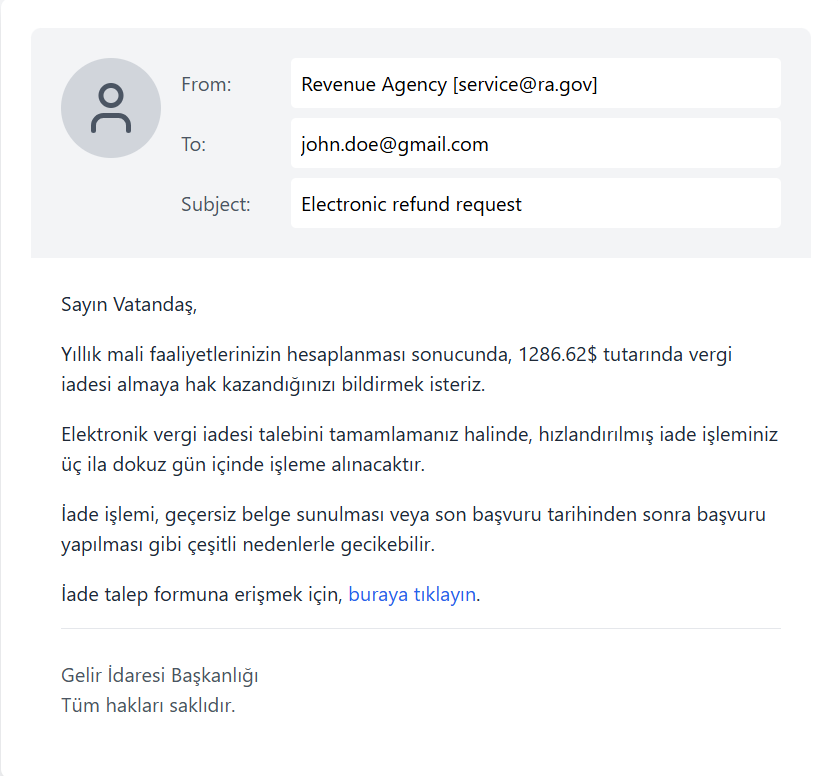
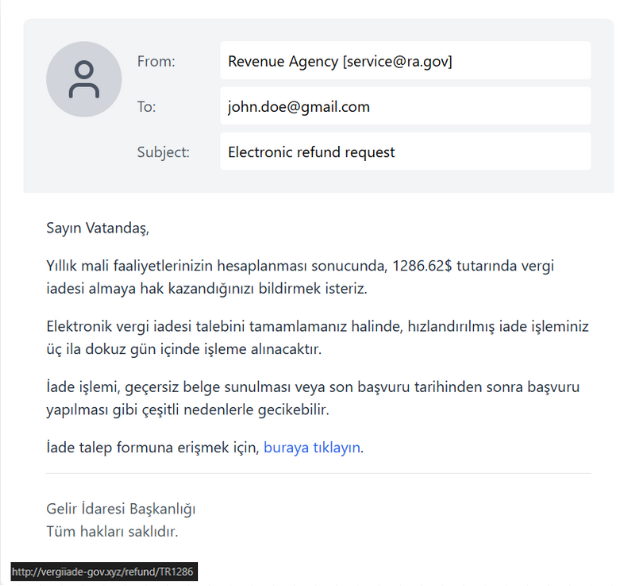
yeni değişiklikler

diff --git a/js/questions.js b/js/questions.js
@@ -43,7 +43,7 @@ const questionsData = [
     {
         "image": "resimler/resim9.png",
         "correct": "phishing",
-        "explanation": "Dikat ederseniz göndericinin adresi sahtedir."
+        "explanation": "Dikat ederseniz 'PTT-Noreply-YRJ3a2z@854876585847565.it' gerçek bir PTT adresi değil. Link üzerine gelindiğinde görülen 'ptt-kargotakip.xyz' adresi resmi PTT domain'i değil !!"
     },
     {
         "image": "resimler/resim10.png",
@@ -63,18 +63,18 @@ const questionsData = [
     {
         "image": "resimler/resim13.png",
         "correct": "phishing",
-        "explanation": "Burda saldırgan sizin hesabınızdan para çıkışı olucak iddası ile karşı tarafı korkutarak E-postadaki bağlantıya tıklamamak ve kişisel bilgilerinizi çalmaya çalışıyor.."
+        "explanation": "Burda saldırgan sizin hesabınızdan para çıkışı olucak iddası ile karşı tarafı korkutarak E-postadaki bağlantıya tıklayarak, kişisel bilgilerinizi çalmaya çalışıyor."
     },
-    // {
-    //     "image": "resimler/resim14.png",
-    //     "correct": "phishing",
-    //     "explanation": "Selamlama geneldir. Bir devlet gelir kurumu, bir e-postada asla geri ödeme tutarı gibi belirli bir bilgi vermez. Ayrıca, mesajın altındaki URL'de yer alan alan adı gönderenin adından farklıdır ve herhangi bir ek iletişim bilgisi verilmemiştir."
-    // },
-    // {
-    //     "image": "resimler/resim15.png",
-    //     "correct": "phishing",
-    //     "explanation": "E-postanın göndericisi kuruluşunuzla ilgili değil. Dikkat ederseniz bağlantının üzerinde ki adresin doğru yönlendirmemektedir. Verilen talimatları izleyip formu doldurursanız, kullanıcı kimliğiniz ve şifreniz gibi bilgileri bir siber suçluya ifşa etmiş olursunuz."
-    // },
+    {
+        "image": "resimler/resim14.png",
+        "correct": "phishing",
+        "explanation": "Selamlama geneldir. Bir devlet gelir kurumu, bir e-postada asla geri ödeme tutarı gibi belirli bir bilgi vermez. Ayrıca, mesajın altındaki Link üzerine gelindiğinde görülen 'vergiiade-gov.xyz' adresi resmi bir devlet kurumu domain'i değil"
+    },
+    {
+        "image": "resimler/resim15.png",
+        "correct": "phishing",
+        "explanation": "'plop.co' gibi güvenilir olmayan bir domain adresi kullanılıyor ve acil karar vermeye zorlamak için bir süre sınırı belirlenmiş. Eğer verilen talimatları takip edip formu doldurursanız, kullanıcı kimliğiniz, şifreniz ve diğer hassas bilgilerinizi siber suçlulara ifşa etme riskiyle karşı karşıya kalırsınız."
+    },
     {
         "image": "resimler/resim16.png",
         "correct": "real",
@@ -115,11 +115,11 @@ const questionsData = [
         "correct": "phishing",
         "explanation": "Bankalar genellikle SMS ile şifre sıfırlama bağlantısı göndermez, Acil eylem gerektiren tehdit içerikli mesaj bulunmakta ve  Şüpheli domain uzantısı (.xyz) bulunuyor sahte bir domaindir."
     },
-    // {
-    //     "image": "resimler/resim24.png",
-    //     "correct": "phishing",
-    //     "explanation": "Bankanız limit değişikliklerini SMS üzerinden onaylatmaz. Görünürde doğru domain (akbank.com.tr) gösterilirken, gerçek URL farklı. Linklerin nereye yönlendirdiğine dikkat edin, önce kontrol edin."
-    // },
+    {
+        "image": "resimler/resim24.png",
+        "correct": "phishing",
+        "explanation": "Bankanız limit değişikliklerini SMS üzerinden onaylatmaz. Görünürde doğru domain (akbank.com.tr) gösterilirken, gerçek URL farklı. Linklerin nereye yönlendirdiğine dikkat edin, önce kontrol edin."
+    },
     {
         "image": "resimler/resim25.png",
         "correct": "phishing",
@@ -133,7 +133,21 @@ const questionsData = [
     {
         "image": "resimler/resim27.png",
         "correct": "real",
-        "explanation": "Gönderici adı doğru formatta, Resmi banka domain'i bulunmaktadır."
+        "explanation": "Gönderici adı doğru formatta, Resmi banka domain'i bulunmaktadır ve Enpara'dan gelen rutin bir bilgilendirmedir. Hesabınıza yapılan transferi gösterir."
+    },
+    {
+        "image": "resimler/resim28.png",
+        "correct": "phishing",
+        "explanation": "Yüksek miktarlı sahte işlem bildirimi ile Korku ve panik yaratarak acil eylem talep etmeye çalışıyor. 'isbank-tr.com' gibi resmi olmayan alan adı bunmakta."
+    },
+    {
+        "image": "resimler/resim29.png",
+        "correct": "real",
+        "explanation": "Dikkat ederseniz gönderen adres @amazon.com.tr uzantılıdır, Tüm bağlantılar amazon.com.tr alan adına yönlenmektedir. Büyük şirketler, resmi e-postalarında 'Sayın [Adınız]' gibi kişisel hitaplar kullanır."
+    },
+    {
+        "image": "resimler/resim30.png",
+        "correct": "real",
+        "explanation": "Gönderici adresi doğrudur.  Bu e-postada, kullanıcıya LinkedIn'de yeni bir mesajı olduğu bildiriliyor ve mesajı görüntülemek için bir bağlantı sağlanıyor. Bağlantı alanına geldiğinizde bağlantı doğru adrese yönlendirmektedir"
     }
-    
 ];
